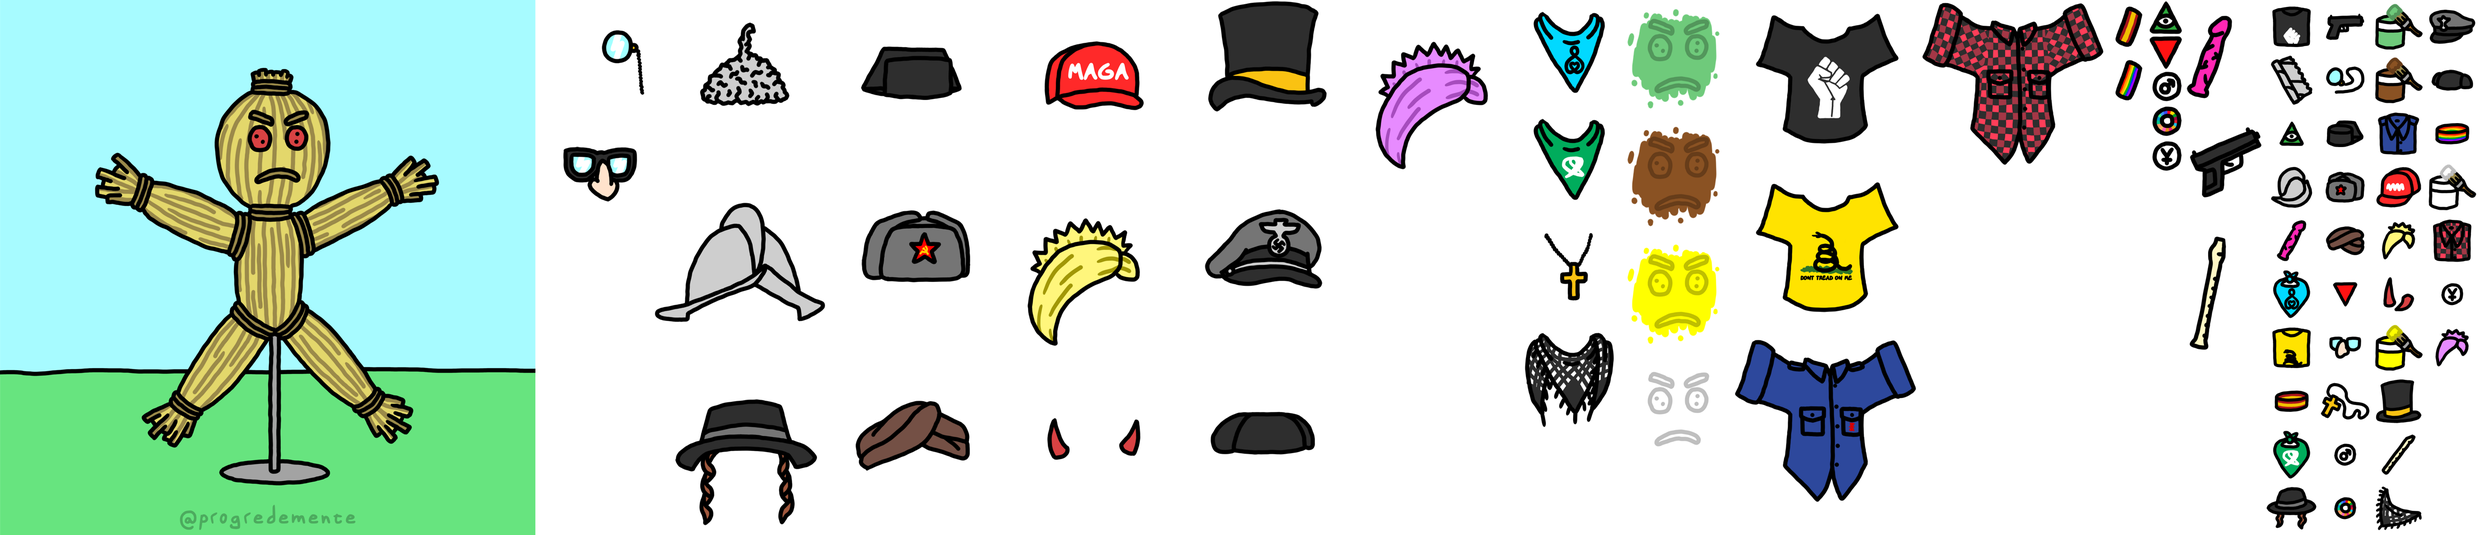
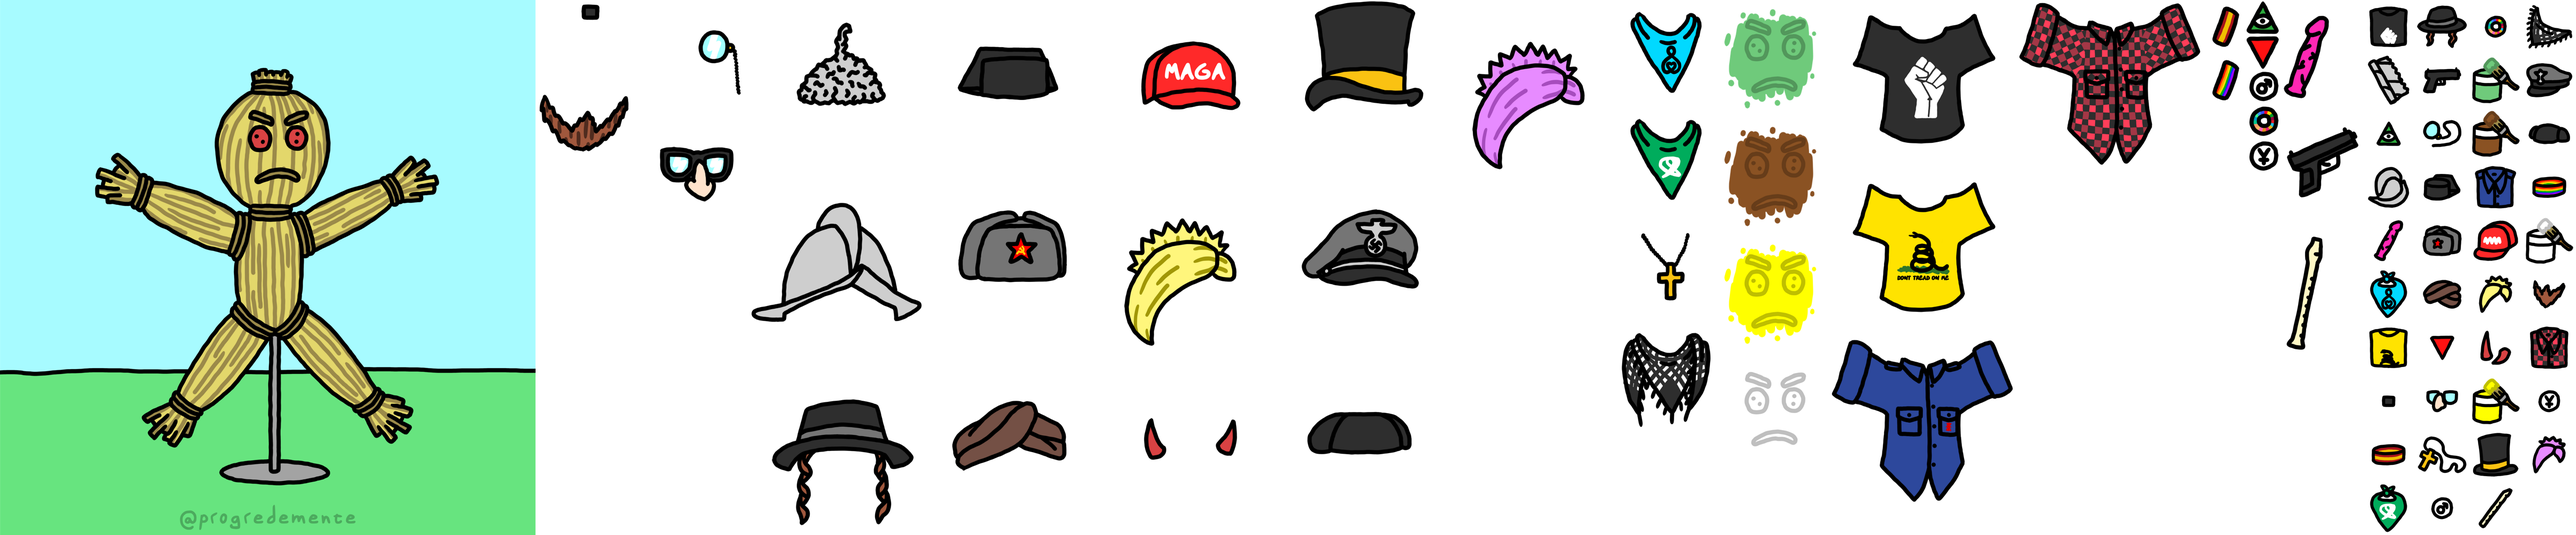
New accessories

diff --git a/docs/static/js/main.4872903f.chunk.js b/docs/static/js/main.4872903f.chunk.js
@@ -1,0 +1,2 @@
+(this.webpackJsonpstrawman=this.webpackJsonpstrawman||[]).push([[0],[,,function(e){e.exports=JSON.parse('{"2030":{"en":"2030","es":"2030"},"loading":{"en":"loading","es":"cargando"},"make":{"en":"make your own","es":"crea tu propio"},"strawman":{"en":"straw man","es":"hombre de paja"},"download":{"en":"download","es":"descargar"},"accessories":{"en":"accessories","es":"accesorios"},"head":{"en":"head","es":"cabeza"},"color":{"en":"skin color","es":"tono de piel"},"glasses":{"en":"glasses","es":"gafas"},"neck":{"en":"neck","es":"cuello"},"bracelets":{"en":"bracelets","es":"pulseras"},"badges":{"en":"badges","es":"pines"},"hand":{"en":"hand","es":"mano"},"chest":{"en":"chest","es":"pecho"},"mouth":{"en":"mouth","es":"boca"},"spain":{"en":"Spain","es":"Espa\xf1a"},"lgbt":{"en":"LGBTIQ+","es":"LGBTIQ+"},"illuminati":{"en":"Illuminati","es":"Illuminati"},"yunque":{"en":"El Yunque","es":"El Yunque"},"male":{"en":"male","es":"hombre"},"red_triangle":{"en":"red triangle","es":"tri\xe1ngulo rojo"},"prochoice":{"en":"pro-choice bandana","es":"pa\xf1uelo abortero"},"prolife":{"en":"pro-life bandana","es":"pa\xf1uelo provida"},"cross":{"en":"cross necklace","es":"colgante con cruz"},"nose":{"en":"glasses with nose","es":"gafas con nariz"},"monocle":{"en":"monocle","es":"mon\xf3culo"},"green":{"en":"green","es":"verde"},"white":{"en":"white","es":"blanco"},"yellow":{"en":"yellow","es":"amarillo"},"brown":{"en":"brown","es":"marr\xf3n"},"morion":{"en":"morion","es":"morri\xf3n"},"turban":{"en":"turban","es":"turbante"},"sideburns":{"en":"hat with sideburns","es":"gorro con patillas"},"commie":{"en":"communist hat","es":"gorro comunista"},"top":{"en":"top hat","es":"chistera"},"nazi":{"en":"nazi hat","es":"gorra nazi"},"maga":{"en":"MAGA hat","es":"gorra MAGA"},"tricornio":{"en":"tricornio","es":"tricornio"},"montera":{"en":"montera","es":"montera"},"pink_hair":{"en":"pink hair","es":"pelo rosa"},"blond_hair":{"en":"blond hair","es":"pelo rubio"},"horns":{"en":"horns","es":"cuernos"},"keffiyeh":{"en":"Palestinian keffiyeh","es":"palestina"},"tinfoil":{"en":"tinfoil","es":"papel de aluminio"},"flute":{"en":"flute","es":"flauta"},"dildo":{"en":"dildo","es":"consolador"},"gun":{"en":"gun","es":"pistola"},"blue_shirt":{"en":"blue shirt","es":"camisa azul"},"lumberjack":{"en":"lumberjack shirt","es":"camisa le\xf1ador"},"blm":{"en":"BLM T-shirt","es":"camiseta BLM"},"gadsden":{"en":"Gadsden T-shirt","es":"camiseta Gadsden"},"chaplin":{"en":"Chaplin moustache","es":"bigote de Chaplin"},"beard":{"en":"beard","es":"barba"}}')},,,,,,,,function(e){e.exports=JSON.parse('{"color":{"white":{"x":3195,"w":220,"t":{"x":4710,"w":100,"y":400,"h":100},"y":660,"h":220},"brown":{"x":3195,"w":220,"t":{"x":4610,"w":100,"y":200,"h":100},"y":220,"h":220},"green":{"x":3195,"w":220,"t":{"x":4610,"w":100,"y":100,"h":100},"y":0,"h":220},"yellow":{"x":3195,"w":220,"t":{"x":4610,"w":100,"y":700,"h":100},"y":440,"h":220}},"badges":{"2030":{"x":4195,"w":65,"t":{"x":4610,"w":100,"y":0,"h":100},"y":195,"h":65},"red_triangle":{"x":4195,"w":65,"t":{"x":4510,"w":100,"y":600,"h":100},"y":65,"h":65},"illuminati":{"x":4195,"w":65,"t":{"x":4410,"w":100,"y":200,"h":100},"y":0,"h":65},"male":{"x":4195,"w":65,"t":{"x":4510,"w":100,"y":900,"h":100},"y":130,"h":65},"yunque":{"x":4195,"w":65,"t":{"x":4710,"w":100,"y":700,"h":100},"y":260,"h":65}},"strawman":{"x":0,"w":1000,"y":0,"h":1000},"neck":{"cross":{"x":3025,"w":170,"t":{"x":4510,"w":100,"y":800,"h":100},"y":400,"h":200},"prolife":{"x":3025,"w":170,"t":{"x":4410,"w":100,"y":500,"h":100},"y":0,"h":200},"prochoice":{"x":3025,"w":170,"t":{"x":4410,"w":100,"y":900,"h":100},"y":200,"h":200},"keffiyeh":{"x":3025,"w":170,"t":{"x":4710,"w":100,"y":0,"h":100},"y":600,"h":200}},"glasses":{"nose":{"x":1180,"w":220,"t":{"x":4510,"w":100,"y":700,"h":100},"y":220,"h":220},"monocle":{"x":1180,"w":220,"t":{"x":4510,"w":100,"y":200,"h":100},"y":0,"h":220}},"head":{"tinfoil":{"x":1400,"w":325,"t":{"x":4410,"w":100,"y":100,"h":100},"y":0,"h":330},"maga":{"x":2050,"w":325,"t":{"x":4610,"w":100,"y":400,"h":100},"y":0,"h":330},"nazi":{"x":2375,"w":325,"t":{"x":4710,"w":100,"y":100,"h":100},"y":330,"h":330},"tricornio":{"x":1725,"w":325,"t":{"x":4510,"w":100,"y":300,"h":100},"y":0,"h":330},"turban":{"x":1725,"w":325,"t":{"x":4510,"w":100,"y":500,"h":100},"y":660,"h":330},"blond_hair":{"x":2050,"w":325,"t":{"x":4610,"w":100,"y":500,"h":100},"y":330,"h":330},"montera":{"x":2375,"w":325,"t":{"x":4710,"w":100,"y":200,"h":100},"y":660,"h":330},"sideburns":{"x":1400,"w":325,"t":{"x":4510,"w":100,"y":0,"h":100},"y":660,"h":330},"morion":{"x":1400,"w":325,"t":{"x":4410,"w":100,"y":300,"h":100},"y":330,"h":330},"horns":{"x":2050,"w":325,"t":{"x":4610,"w":100,"y":600,"h":100},"y":660,"h":330},"commie":{"x":1725,"w":325,"t":{"x":4510,"w":100,"y":400,"h":100},"y":330,"h":330},"pink_hair":{"x":2700,"w":325,"t":{"x":4710,"w":100,"y":800,"h":100},"y":0,"h":330},"top":{"x":2375,"w":325,"t":{"x":4610,"w":100,"y":800,"h":100},"y":0,"h":330}},"hand":{"dildo":{"x":4260,"w":150,"t":{"x":4410,"w":100,"y":400,"h":100},"y":0,"h":220},"flute":{"x":4260,"w":150,"t":{"x":4610,"w":100,"y":900,"h":100},"y":440,"h":220},"gun":{"x":4260,"w":150,"t":{"x":4510,"w":100,"y":100,"h":100},"y":220,"h":220}},"mouth":{"chaplin":{"x":1000,"w":180,"t":{"x":4410,"w":100,"y":700,"h":100},"y":0,"h":145},"beard":{"x":1000,"w":180,"t":{"x":4710,"w":100,"y":500,"h":100},"y":145,"h":145}},"chest":{"blue_shirt":{"x":3415,"w":350,"t":{"x":4610,"w":100,"y":300,"h":100},"y":630,"h":315},"lumberjack":{"x":3765,"w":350,"t":{"x":4710,"w":100,"y":600,"h":100},"y":0,"h":315},"blm":{"x":3415,"w":350,"t":{"x":4410,"w":100,"y":0,"h":100},"y":0,"h":315},"gadsden":{"x":3415,"w":350,"t":{"x":4410,"w":100,"y":600,"h":100},"y":315,"h":315}},"bracelets":{"spain":{"x":4115,"w":80,"t":{"x":4410,"w":100,"y":800,"h":100},"y":0,"h":100},"lgbt":{"x":4115,"w":80,"t":{"x":4710,"w":100,"y":300,"h":100},"y":100,"h":100}}}')},,,function(e){e.exports=JSON.parse('{"head":{"x":340,"y":10,"w":325,"h":330,"z":8},"color":{"x":400,"y":170,"w":220,"h":220,"z":5},"mouth":{"x":420,"y":280,"w":180,"h":145,"z":6},"glasses":{"x":400,"y":170,"w":220,"h":220,"z":7},"neck":{"x":420,"y":355,"w":170,"h":200,"z":1},"bracelets":{"x":225,"y":310,"w":80,"h":100,"z":2},"badges":{"x":515,"y":395,"w":65,"h":65,"z":3},"hand":{"x":715,"y":230,"w":150,"h":220,"z":4},"chest":{"x":330,"y":345,"w":350,"h":315,"z":0}}')},,,,,,function(e,t,a){},function(e,t,a){},function(e,t,a){},,function(e,t,a){},function(e,t,a){},function(e,t,a){"use strict";a.r(t);var n=a(1),s=a.n(n),r=a(11),i=a.n(r),o=(a(19),a(3)),c=a(4),h=a(6),l=a(5),d=(a(20),a(14)),w=a(12),u=(a(21),function e(t){Object(o.a)(this,e),this.x=t.x,this.y=t.y,this.w=t.w,this.h=t.h}),p=function e(t,a,n,s){Object(o.a)(this,e),this.selected=!1,this.name=t,this.category=a,this.origin=new u(n),this.destination=new u(s),this.order=s.z,this.thumbnail=new u(n.t)},m=a(2),y=a(0),x=function(e){Object(h.a)(a,e);var t=Object(l.a)(a);function a(e){var s;return Object(o.a)(this,a),(s=t.call(this,e)).side=s.props.strawman.h,s.canvas=Object(n.createRef)(),s.maxScaleFactor=.7,s.state={scaleFactor:s.getScaleFactor()},s}return Object(c.a)(a,[{key:"componentDidMount",value:function(){var e=this;window.addEventListener("resize",(function(){e.setState({scaleFactor:e.getScaleFactor()})})),this.drawCanvas()}},{key:"componentDidUpdate",value:function(){this.drawCanvas()}},{key:"render",value:function(){var e=this;return Object(y.jsxs)("div",{className:"canvas-component",children:[Object(y.jsxs)("h1",{children:[Object(y.jsx)("div",{children:m.make[this.props.lang].capitalize()}),Object(y.jsx)("div",{children:m.strawman[this.props.lang].toUpperCase()})]}),Object(y.jsx)("canvas",{ref:this.canvas,width:this.side*this.state.scaleFactor,height:this.side*this.state.scaleFactor}),Object(y.jsx)("div",{className:"download",onClick:function(){e.downloadImage()},children:m.download[this.props.lang].capitalize()})]})}},{key:"drawCanvas",value:function(){var e=this.getTempCanvas(),t=this.canvas.current.getContext("2d");t.clearRect(0,0,this.side*this.state.scaleFactor,this.side*this.state.scaleFactor),t.drawImage(e,0,0,this.side*this.state.scaleFactor,this.side*this.state.scaleFactor)}},{key:"getTempCanvas",value:function(){var e=document.createElement("canvas");e.width=this.side,e.height=this.side;var t=e.getContext("2d");return this.drawImage(this.props.strawman,this.props.strawman,t),this.drawWardrobe(this.props.wardrobe,t),e}},{key:"drawWardrobe",value:function(e,t){var a,n=Object(w.a)(this.getClothes(e).sort((function(e,t){return e.order-t.order})));try{for(n.s();!(a=n.n()).done;){var s=a.value;this.drawImage(s.origin,s.destination,t)}}catch(r){n.e(r)}finally{n.f()}}},{key:"getClothes",value:function(e){var t=[];for(var a in e)e[a]instanceof p?e[a].selected&&t.push(e[a]):t.push.apply(t,Object(d.a)(this.getClothes(e[a])));return t}},{key:"drawImage",value:function(e,t,a){a.drawImage(this.props.img,e.x,e.y,e.w,e.h,t.x,t.y,t.w,t.h)}},{key:"downloadImage",value:function(){var e=document.createElement("a");e.download="strawman.png",this.getTempCanvas().toBlob((function(t){var a=URL.createObjectURL(t);e.href=a,e.click()}))}},{key:"getScaleFactor",value:function(){return window.innerWidth<this.side*this.maxScaleFactor?window.innerWidth/this.side:this.maxScaleFactor}}]),a}(n.Component),g=(a(23),a(24),function(e){Object(h.a)(a,e);var t=Object(l.a)(a);function a(){return Object(o.a)(this,a),t.apply(this,arguments)}return Object(c.a)(a,[{key:"render",value:function(){var e=this;return Object(y.jsxs)("div",{className:"garment".concat(this.props.garment.selected?" selected":""),onClick:function(){e.props.selectGarment(e.props.garment)},children:[Object(y.jsx)("img",{src:"./merge.png",style:{"--x":"".concat(this.props.garment.thumbnail.x,"px"),"--y":"".concat(this.props.garment.thumbnail.y,"px"),"--w":"".concat(this.props.garment.thumbnail.w,"px"),"--h":"".concat(this.props.garment.thumbnail.h,"px")},alt:m[this.props.garment.name][this.props.lang]}),Object(y.jsx)("figcaption",{children:m[this.props.garment.name][this.props.lang]})]})}}]),a}(n.Component)),b=g,f=function(e){Object(h.a)(a,e);var t=Object(l.a)(a);function a(){return Object(o.a)(this,a),t.apply(this,arguments)}return Object(c.a)(a,[{key:"render",value:function(){var e=this;return Object(y.jsxs)("div",{className:"wardrobe",children:[Object(y.jsx)("h1",{children:m.accessories[this.props.lang].capitalize()}),Object.keys(this.props.wardrobe).map((function(t){return Object(y.jsxs)("div",{className:"category",children:[Object(y.jsx)("span",{children:m[t][e.props.lang].capitalize()}),Object(y.jsx)("div",{className:"content",children:Object.keys(e.props.wardrobe[t]).map((function(a){return Object(y.jsx)(b,{garment:e.props.wardrobe[t][a],selectGarment:e.props.selectGarment,lang:e.props.lang},a)}))})]},t)}))]})}}]),a}(n.Component),j=f,v=a(10),O=a(13),k=function(e){Object(h.a)(a,e);var t=Object(l.a)(a);function a(e){var n,s;Object(o.a)(this,a),(n=t.call(this,e)).selectGarment=function(e){if(!e.selected)for(var t in e.category){var a=e.category[t];a!==e&&(a.selected=!1)}e.selected=!e.selected,n.setState({})};try{s=navigator.language.toLowerCase().split("-")[0]}catch(r){}return["en","es"].includes(s)||(s="en"),n.state={wardrobe:n.getWardrobe(v,O),lang:s,loaded:!1},n}return Object(c.a)(a,[{key:"componentDidMount",value:function(){var e=this;this.img=new Image,this.img.src="./merge.png",this.img.onload=function(){e.setState({loaded:!0})}}},{key:"getWardrobe",value:function(e,t){var a={};for(var n in e)if("strawman"!==n)for(var s in a[n]={},e[n])a[n][s]=new p(s,a[n],e[n][s],t[n]);return a}},{key:"render",value:function(){return Object(y.jsxs)(y.Fragment,{children:[this.state.loaded&&Object(y.jsxs)("div",{className:"app",children:[Object(y.jsx)(x,{wardrobe:this.state.wardrobe,strawman:new u(v.strawman),lang:this.state.lang,img:this.img}),Object(y.jsx)(j,{wardrobe:this.state.wardrobe,selectGarment:this.selectGarment,lang:this.state.lang})]}),!this.state.loaded&&Object(y.jsxs)("div",{className:"loading",children:[Object(y.jsx)("img",{src:"./favicon.png",alt:m.loading[this.state.lang]}),m.loading[this.state.lang]]})]})}}]),a}(n.Component),C=function(e){e&&e instanceof Function&&a.e(3).then(a.bind(null,26)).then((function(t){var a=t.getCLS,n=t.getFID,s=t.getFCP,r=t.getLCP,i=t.getTTFB;a(e),n(e),s(e),r(e),i(e)}))};String.prototype.capitalize=function(){return this[0].toUpperCase()+this.substr(1,this.length)},i.a.render(Object(y.jsx)(s.a.StrictMode,{children:Object(y.jsx)(k,{})}),document.getElementById("root")),C()}],[[25,1,2]]]);
+//# sourceMappingURL=main.4872903f.chunk.js.map

diff --git a/docs/index.html b/docs/index.html
@@ -1,1 +1,1 @@
-<!doctype html><html lang="en"><head><meta charset="utf-8"/><link rel="icon" href="./favicon.png"/><meta name="viewport" content="width=device-width,initial-scale=1"/><meta name="theme-color" content="#000000"/><meta name="description" content="Web site created using create-react-app"/><link rel="apple-touch-icon" href="./logo192.png"/><link rel="manifest" href="./manifest.json"/><title>Straw man</title><link href="./static/css/main.df0759d8.chunk.css" rel="stylesheet"></head><body><noscript>You need to enable JavaScript to run this app.</noscript><div id="root"></div><script>!function(e){function r(r){for(var n,a,i=r[0],c=r[1],l=r[2],s=0,p=[];s<i.length;s++)a=i[s],Object.prototype.hasOwnProperty.call(o,a)&&o[a]&&p.push(o[a][0]),o[a]=0;for(n in c)Object.prototype.hasOwnProperty.call(c,n)&&(e[n]=c[n]);for(f&&f(r);p.length;)p.shift()();return u.push.apply(u,l||[]),t()}function t(){for(var e,r=0;r<u.length;r++){for(var t=u[r],n=!0,i=1;i<t.length;i++){var c=t[i];0!==o[c]&&(n=!1)}n&&(u.splice(r--,1),e=a(a.s=t[0]))}return e}var n={},o={1:0},u=[];function a(r){if(n[r])return n[r].exports;var t=n[r]={i:r,l:!1,exports:{}};return e[r].call(t.exports,t,t.exports,a),t.l=!0,t.exports}a.e=function(e){var r=[],t=o[e];if(0!==t)if(t)r.push(t[2]);else{var n=new Promise((function(r,n){t=o[e]=[r,n]}));r.push(t[2]=n);var u,i=document.createElement("script");i.charset="utf-8",i.timeout=120,a.nc&&i.setAttribute("nonce",a.nc),i.src=function(e){return a.p+"static/js/"+({}[e]||e)+"."+{3:"6449b234"}[e]+".chunk.js"}(e);var c=new Error;u=function(r){i.onerror=i.onload=null,clearTimeout(l);var t=o[e];if(0!==t){if(t){var n=r&&("load"===r.type?"missing":r.type),u=r&&r.target&&r.target.src;c.message="Loading chunk "+e+" failed.\n("+n+": "+u+")",c.name="ChunkLoadError",c.type=n,c.request=u,t[1](c)}o[e]=void 0}};var l=setTimeout((function(){u({type:"timeout",target:i})}),12e4);i.onerror=i.onload=u,document.head.appendChild(i)}return Promise.all(r)},a.m=e,a.c=n,a.d=function(e,r,t){a.o(e,r)||Object.defineProperty(e,r,{enumerable:!0,get:t})},a.r=function(e){"undefined"!=typeof Symbol&&Symbol.toStringTag&&Object.defineProperty(e,Symbol.toStringTag,{value:"Module"}),Object.defineProperty(e,"__esModule",{value:!0})},a.t=function(e,r){if(1&r&&(e=a(e)),8&r)return e;if(4&r&&"object"==typeof e&&e&&e.__esModule)return e;var t=Object.create(null);if(a.r(t),Object.defineProperty(t,"default",{enumerable:!0,value:e}),2&r&&"string"!=typeof e)for(var n in e)a.d(t,n,function(r){return e[r]}.bind(null,n));return t},a.n=function(e){var r=e&&e.__esModule?function(){return e.default}:function(){return e};return a.d(r,"a",r),r},a.o=function(e,r){return Object.prototype.hasOwnProperty.call(e,r)},a.p="./",a.oe=function(e){throw console.error(e),e};var i=this.webpackJsonpstrawman=this.webpackJsonpstrawman||[],c=i.push.bind(i);i.push=r,i=i.slice();for(var l=0;l<i.length;l++)r(i[l]);var f=c;t()}([])</script><script src="./static/js/2.21a2c000.chunk.js"></script><script src="./static/js/main.fee0650d.chunk.js"></script></body></html>
+<!doctype html><html lang="en"><head><meta charset="utf-8"/><link rel="icon" href="./favicon.png"/><meta name="viewport" content="width=device-width,initial-scale=1"/><meta name="theme-color" content="#000000"/><meta name="description" content="Web site created using create-react-app"/><link rel="apple-touch-icon" href="./logo192.png"/><link rel="manifest" href="./manifest.json"/><title>Straw man</title><link href="./static/css/main.df0759d8.chunk.css" rel="stylesheet"></head><body><noscript>You need to enable JavaScript to run this app.</noscript><div id="root"></div><script>!function(e){function r(r){for(var n,a,i=r[0],c=r[1],l=r[2],s=0,p=[];s<i.length;s++)a=i[s],Object.prototype.hasOwnProperty.call(o,a)&&o[a]&&p.push(o[a][0]),o[a]=0;for(n in c)Object.prototype.hasOwnProperty.call(c,n)&&(e[n]=c[n]);for(f&&f(r);p.length;)p.shift()();return u.push.apply(u,l||[]),t()}function t(){for(var e,r=0;r<u.length;r++){for(var t=u[r],n=!0,i=1;i<t.length;i++){var c=t[i];0!==o[c]&&(n=!1)}n&&(u.splice(r--,1),e=a(a.s=t[0]))}return e}var n={},o={1:0},u=[];function a(r){if(n[r])return n[r].exports;var t=n[r]={i:r,l:!1,exports:{}};return e[r].call(t.exports,t,t.exports,a),t.l=!0,t.exports}a.e=function(e){var r=[],t=o[e];if(0!==t)if(t)r.push(t[2]);else{var n=new Promise((function(r,n){t=o[e]=[r,n]}));r.push(t[2]=n);var u,i=document.createElement("script");i.charset="utf-8",i.timeout=120,a.nc&&i.setAttribute("nonce",a.nc),i.src=function(e){return a.p+"static/js/"+({}[e]||e)+"."+{3:"6449b234"}[e]+".chunk.js"}(e);var c=new Error;u=function(r){i.onerror=i.onload=null,clearTimeout(l);var t=o[e];if(0!==t){if(t){var n=r&&("load"===r.type?"missing":r.type),u=r&&r.target&&r.target.src;c.message="Loading chunk "+e+" failed.\n("+n+": "+u+")",c.name="ChunkLoadError",c.type=n,c.request=u,t[1](c)}o[e]=void 0}};var l=setTimeout((function(){u({type:"timeout",target:i})}),12e4);i.onerror=i.onload=u,document.head.appendChild(i)}return Promise.all(r)},a.m=e,a.c=n,a.d=function(e,r,t){a.o(e,r)||Object.defineProperty(e,r,{enumerable:!0,get:t})},a.r=function(e){"undefined"!=typeof Symbol&&Symbol.toStringTag&&Object.defineProperty(e,Symbol.toStringTag,{value:"Module"}),Object.defineProperty(e,"__esModule",{value:!0})},a.t=function(e,r){if(1&r&&(e=a(e)),8&r)return e;if(4&r&&"object"==typeof e&&e&&e.__esModule)return e;var t=Object.create(null);if(a.r(t),Object.defineProperty(t,"default",{enumerable:!0,value:e}),2&r&&"string"!=typeof e)for(var n in e)a.d(t,n,function(r){return e[r]}.bind(null,n));return t},a.n=function(e){var r=e&&e.__esModule?function(){return e.default}:function(){return e};return a.d(r,"a",r),r},a.o=function(e,r){return Object.prototype.hasOwnProperty.call(e,r)},a.p="./",a.oe=function(e){throw console.error(e),e};var i=this.webpackJsonpstrawman=this.webpackJsonpstrawman||[],c=i.push.bind(i);i.push=r,i=i.slice();for(var l=0;l<i.length;l++)r(i[l]);var f=c;t()}([])</script><script src="./static/js/2.21a2c000.chunk.js"></script><script src="./static/js/main.4872903f.chunk.js"></script></body></html>
